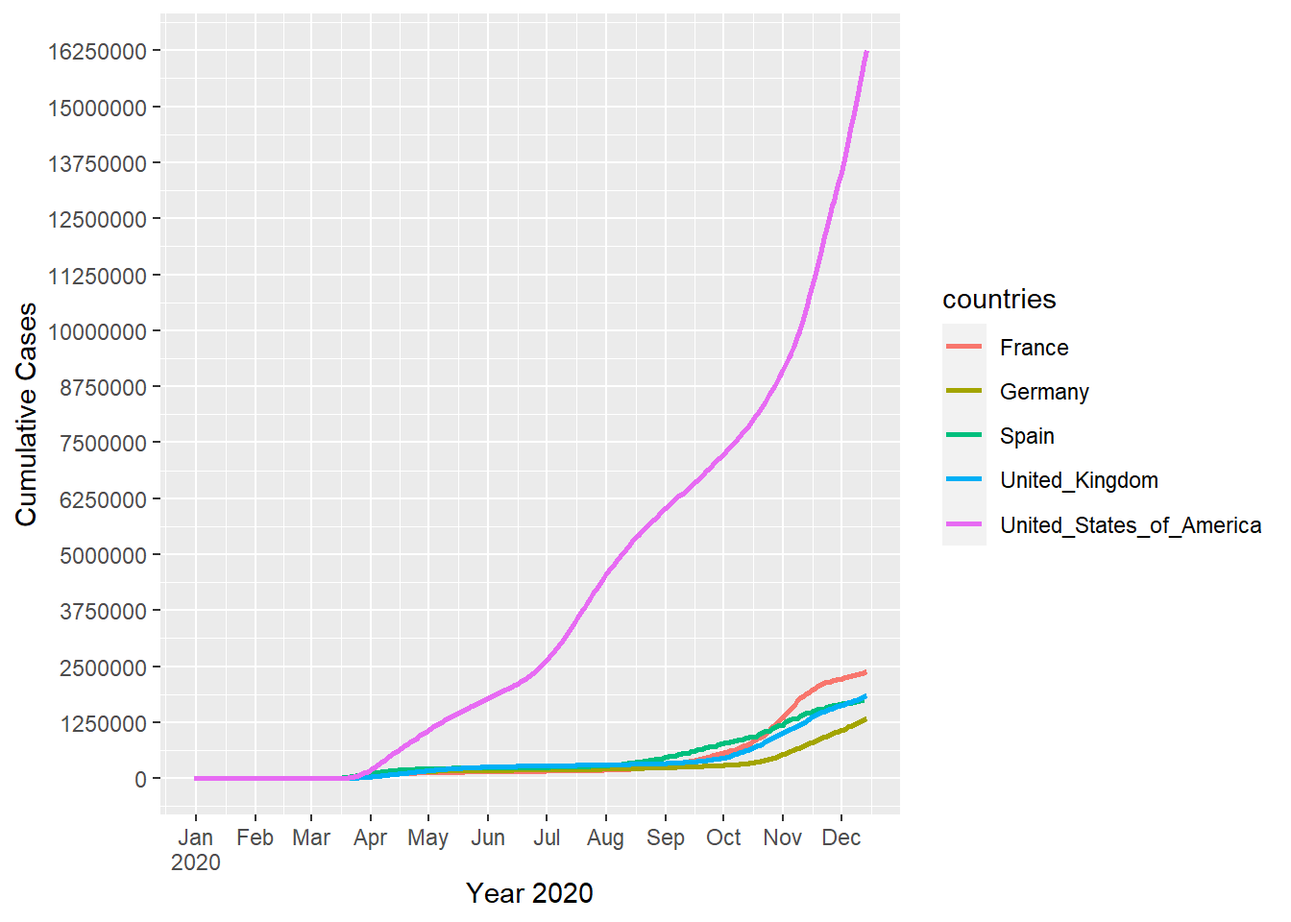
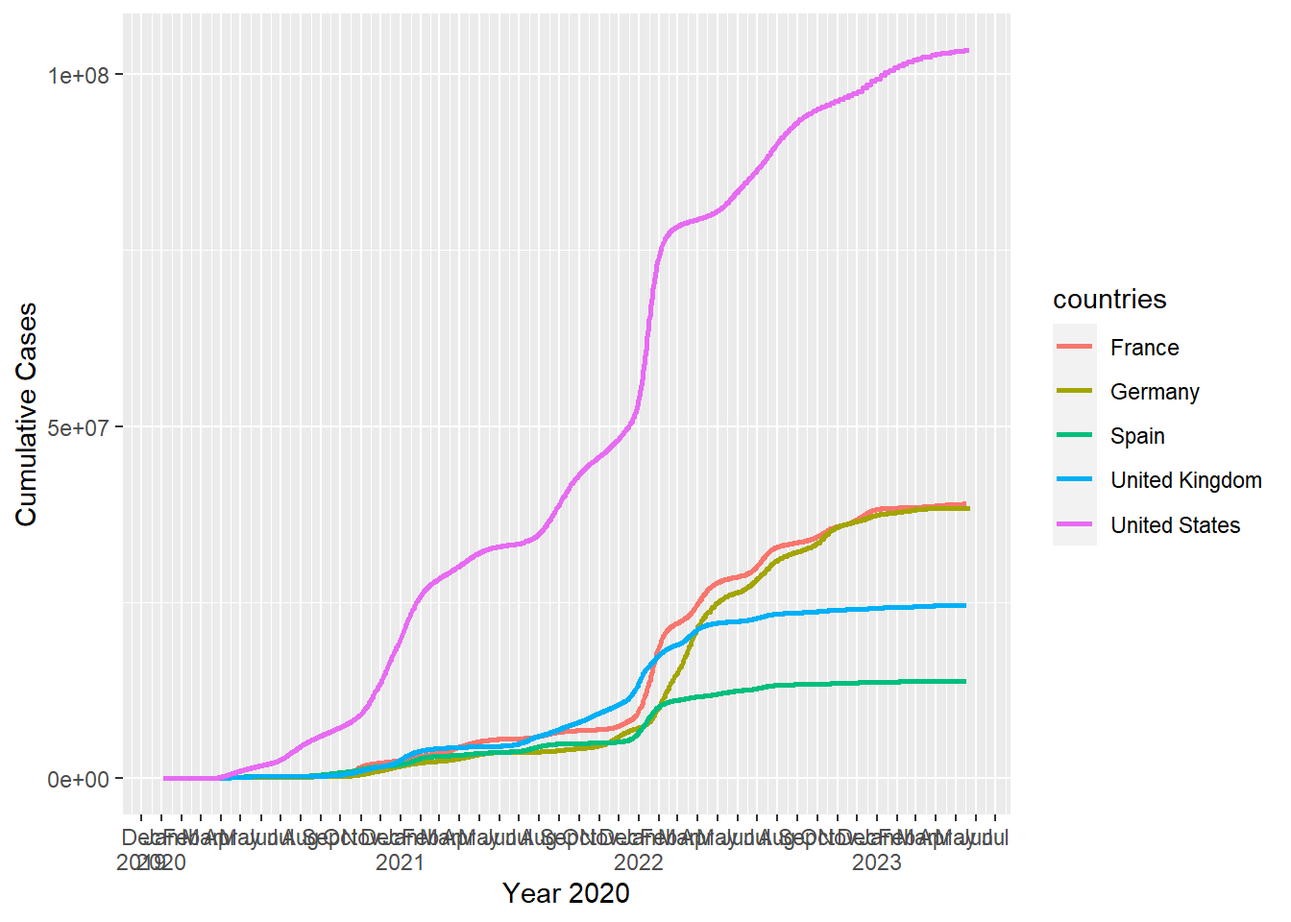
final commit

diff --git a/_site/content/01_journal/04_data_visualization.html b/_site/content/01_journal/04_data_visualization.html
@@ -5,7 +5,7 @@
 <meta name="generator" content="quarto-1.2.475">
 <meta name="viewport" content="width=device-width, initial-scale=1.0, user-scalable=yes">
 <meta name="author" content="Omar Hegazy">
-<title>MyLabJournal - Data Visualization</title>
+<title>MyLabJournal - Challenge 4: data visualization</title>
 <style>
 code{white-space: pre-wrap;}
 span.smallcaps{font-variant: small-caps;}
@@ -204,7 +204,7 @@ code span.wa { color: #60a0b0; font-weight: bold; font-style: italic; } /* Warni
     </div>
 <!-- main -->
 <main class="content" id="quarto-document-content"><header id="title-block-header" class="quarto-title-block default"><div class="quarto-title">
-<h1 class="title">Data Visualization</h1>
+<h1 class="title">Challenge 4: data visualization</h1>
 </div>
 
 
@@ -227,66 +227,62 @@ code span.wa { color: #60a0b0; font-weight: bold; font-style: italic; } /* Warni
 <span class="header-section-number">1</span> Challenge:</h1>
 <section id="map-the-time-course-of-the-cumulative-covid-19-cases." class="level2" data-number="1.1"><h2 data-number="1.1" class="anchored" data-anchor-id="map-the-time-course-of-the-cumulative-covid-19-cases.">
 <span class="header-section-number">1.1</span> Map the time course of the cumulative Covid-19 cases.</h2>
-<div class="cell" data-hash="04_data_visualization_cache/html/unnamed-chunk-1_32a1ff669c20ef3a578b6e5c73ec0397">
-<div class="sourceCode cell-code" id="cb1"><pre class="sourceCode numberSource r number-lines code-with-copy"><code class="sourceCode r"><span id="cb1-1"><a href="#cb1-1"></a><span class="fu">library</span>(tidyverse)</span></code><button title="Copy to Clipboard" class="code-copy-button"><i class="bi"></i></button></pre></div>
+<div class="cell" data-hash="04_data_visualization_cache/html/unnamed-chunk-1_664248408648d3ba7aaf9e67fe142db7">
+<div class="sourceCode cell-code" id="cb1"><pre class="sourceCode numberSource r number-lines code-with-copy"><code class="sourceCode r"><span id="cb1-1"><a href="#cb1-1"></a><span class="fu">library</span>(tidyverse)</span>
+<span id="cb1-2"><a href="#cb1-2"></a><span class="fu">library</span>(dplyr)</span>
+<span id="cb1-3"><a href="#cb1-3"></a><span class="fu">library</span>(lubridate)</span>
+<span id="cb1-4"><a href="#cb1-4"></a><span class="fu">library</span>(ggplot2)</span>
+<span id="cb1-5"><a href="#cb1-5"></a><span class="fu">library</span>(scales)</span>
+<span id="cb1-6"><a href="#cb1-6"></a><span class="fu">library</span>(tidyr)</span>
+<span id="cb1-7"><a href="#cb1-7"></a></span>
+<span id="cb1-8"><a href="#cb1-8"></a>covid_data_tbl <span class="ot">&lt;-</span> <span class="fu">read_csv</span>(<span class="st">"https://covid.ourworldindata.org/data/owid-covid-data.csv"</span>)</span></code><button title="Copy to Clipboard" class="code-copy-button"><i class="bi"></i></button></pre></div>
 <div class="cell-output cell-output-stderr">
-<pre><code>#&gt; ── Attaching core tidyverse packages ──────────────────────── tidyverse 2.0.0 ──
-#&gt; ✔ dplyr     1.1.2     ✔ readr     2.1.4
-#&gt; ✔ forcats   1.0.0     ✔ stringr   1.5.0
-#&gt; ✔ ggplot2   3.4.2     ✔ tibble    3.2.1
-#&gt; ✔ lubridate 1.9.2     ✔ tidyr     1.3.0
-#&gt; ✔ purrr     1.0.1     
-#&gt; ── Conflicts ────────────────────────────────────────── tidyverse_conflicts() ──
-#&gt; ✖ dplyr::filter() masks stats::filter()
-#&gt; ✖ dplyr::lag()    masks stats::lag()
-#&gt; ℹ Use the conflicted package (&lt;http://conflicted.r-lib.org/&gt;) to force all conflicts to become errors</code></pre>
-</div>
-<div class="sourceCode cell-code" id="cb3"><pre class="sourceCode numberSource r number-lines code-with-copy"><code class="sourceCode r"><span id="cb3-1"><a href="#cb3-1"></a><span class="fu">library</span>(dplyr)</span>
-<span id="cb3-2"><a href="#cb3-2"></a><span class="fu">library</span>(lubridate)</span>
-<span id="cb3-3"><a href="#cb3-3"></a><span class="fu">library</span>(ggplot2)</span>
-<span id="cb3-4"><a href="#cb3-4"></a><span class="fu">library</span>(scales)</span></code><button title="Copy to Clipboard" class="code-copy-button"><i class="bi"></i></button></pre></div>
-<div class="cell-output cell-output-stderr">
-<pre><code>#&gt; 
-#&gt; Attaching package: 'scales'
-#&gt; 
-#&gt; The following object is masked from 'package:purrr':
-#&gt; 
-#&gt;     discard
-#&gt; 
-#&gt; The following object is masked from 'package:readr':
-#&gt; 
-#&gt;     col_factor</code></pre>
-</div>
-<div class="sourceCode cell-code" id="cb5"><pre class="sourceCode numberSource r number-lines code-with-copy"><code class="sourceCode r"><span id="cb5-1"><a href="#cb5-1"></a>covid_data_tbl <span class="ot">&lt;-</span> <span class="fu">read_csv</span>(<span class="st">"https://opendata.ecdc.europa.eu/covid19/casedistribution/csv"</span>)</span></code><button title="Copy to Clipboard" class="code-copy-button"><i class="bi"></i></button></pre></div>
-<div class="cell-output cell-output-stderr">
-<pre><code>#&gt; Rows: 61900 Columns: 12
+<pre><code>#&gt; Rows: 311581 Columns: 67
 #&gt; ── Column specification ────────────────────────────────────────────────────────
 #&gt; Delimiter: ","
-#&gt; chr (5): dateRep, countriesAndTerritories, geoId, countryterritoryCode, cont...
-#&gt; dbl (7): day, month, year, cases, deaths, popData2019, Cumulative_number_for...
+#&gt; chr   (4): iso_code, continent, location, tests_units
+#&gt; dbl  (62): total_cases, new_cases, new_cases_smoothed, total_deaths, new_dea...
+#&gt; date  (1): date
 #&gt; 
 #&gt; ℹ Use `spec()` to retrieve the full column specification for this data.
 #&gt; ℹ Specify the column types or set `show_col_types = FALSE` to quiet this message.</code></pre>
 </div>
-<div class="sourceCode cell-code" id="cb7"><pre class="sourceCode numberSource r number-lines code-with-copy"><code class="sourceCode r"><span id="cb7-1"><a href="#cb7-1"></a>covid_data_tbl <span class="ot">&lt;-</span> covid_data_tbl[<span class="fu">order</span>(<span class="fu">as.Date</span>(covid_data_tbl<span class="sc">$</span>dateRep, <span class="at">format=</span><span class="st">"%d/%m/%Y"</span>)),]</span>
-<span id="cb7-2"><a href="#cb7-2"></a></span>
-<span id="cb7-3"><a href="#cb7-3"></a>covid_data_tbl2 <span class="ot">&lt;-</span> covid_data_tbl <span class="sc">%&gt;%</span></span>
-<span id="cb7-4"><a href="#cb7-4"></a>  <span class="fu">filter</span>(countriesAndTerritories <span class="sc">%in%</span> <span class="fu">c</span>(<span class="st">'Spain'</span>, <span class="st">'United_Kingdom'</span>, <span class="st">'France'</span>, <span class="st">'Germany'</span>,<span class="st">'United_States_of_America'</span>)) <span class="sc">%&gt;%</span></span>
-<span id="cb7-5"><a href="#cb7-5"></a>  <span class="fu">select</span>(dateRep, countriesAndTerritories, cases) <span class="sc">%&gt;%</span></span>
-<span id="cb7-6"><a href="#cb7-6"></a>  <span class="fu">group_by</span>(countriesAndTerritories) <span class="sc">%&gt;%</span></span>
-<span id="cb7-7"><a href="#cb7-7"></a>  <span class="fu">mutate</span>(<span class="at">cumulativeCases =</span> <span class="fu">cumsum</span>(cases))  <span class="sc">%&gt;%</span></span>
-<span id="cb7-8"><a href="#cb7-8"></a>  <span class="fu">select</span>(dateRep, countriesAndTerritories, cumulativeCases) <span class="sc">%&gt;%</span></span>
-<span id="cb7-9"><a href="#cb7-9"></a>  <span class="fu">rename</span>(<span class="at">countries =</span> countriesAndTerritories)</span>
-<span id="cb7-10"><a href="#cb7-10"></a><span class="co"># Plotting the values </span></span>
-<span id="cb7-11"><a href="#cb7-11"></a>ticks <span class="ot">=</span> <span class="fu">c</span>(<span class="st">"Dec"</span>,<span class="st">"Jan"</span>, <span class="st">'Feb'</span>,<span class="st">'March'</span>, <span class="st">'April'</span>, <span class="st">'May'</span>, <span class="st">'June'</span>,<span class="st">'July'</span>,</span>
-<span id="cb7-12"><a href="#cb7-12"></a>          <span class="st">'Aug'</span>,<span class="st">'Sept'</span>,<span class="st">'Oct'</span>,<span class="st">'Nov'</span>,<span class="st">'Dec'</span>)</span>
-<span id="cb7-13"><a href="#cb7-13"></a>y_ticks <span class="ot">=</span> <span class="fu">seq</span>(<span class="dv">0</span>,<span class="fu">max</span>(covid_data_tbl2<span class="sc">$</span>cumulativeCases),<span class="dv">1250000</span>)</span>
-<span id="cb7-14"><a href="#cb7-14"></a>covid_data_tbl2 <span class="sc">%&gt;%</span></span>
-<span id="cb7-15"><a href="#cb7-15"></a>  <span class="fu">ggplot</span>(<span class="fu">aes</span>(<span class="at">x =</span> <span class="fu">as.POSIXct</span>(dateRep, <span class="at">format =</span> <span class="st">'%d/%m/%Y'</span>), <span class="at">y =</span> cumulativeCases)) <span class="sc">+</span></span>
-<span id="cb7-16"><a href="#cb7-16"></a>  <span class="fu">geom_line</span>(<span class="fu">aes</span>(<span class="at">color =</span> countries), <span class="at">size =</span> <span class="dv">1</span>) <span class="sc">+</span></span>
-<span id="cb7-17"><a href="#cb7-17"></a>  <span class="fu">labs</span>(<span class="at">x =</span> <span class="st">'Year 2020'</span>, <span class="at">y=</span><span class="st">'Cumulative Cases'</span>, <span class="at">fill =</span> <span class="st">'Countries'</span>) <span class="sc">+</span></span>
-<span id="cb7-18"><a href="#cb7-18"></a>  <span class="fu">scale_x_datetime</span>(<span class="at">date_breaks =</span> <span class="st">'month'</span>, <span class="at">labels =</span> <span class="fu">label_date_short</span>()) <span class="sc">+</span></span>
-<span id="cb7-19"><a href="#cb7-19"></a>  <span class="fu">scale_y_continuous</span>(<span class="at">breaks =</span> <span class="fu">c</span>(y_ticks))</span></code><button title="Copy to Clipboard" class="code-copy-button"><i class="bi"></i></button></pre></div>
+<div class="sourceCode cell-code" id="cb3"><pre class="sourceCode numberSource r number-lines code-with-copy"><code class="sourceCode r"><span id="cb3-1"><a href="#cb3-1"></a>show_col_types <span class="ot">=</span> <span class="cn">FALSE</span></span>
+<span id="cb3-2"><a href="#cb3-2"></a></span>
+<span id="cb3-3"><a href="#cb3-3"></a>covid_data_tbl <span class="ot">&lt;-</span> covid_data_tbl[<span class="fu">order</span>(<span class="fu">as.Date</span>(covid_data_tbl<span class="sc">$</span>date, <span class="at">format=</span><span class="st">"%d/%m/%Y"</span>)),]</span>
+<span id="cb3-4"><a href="#cb3-4"></a></span>
+<span id="cb3-5"><a href="#cb3-5"></a></span>
+<span id="cb3-6"><a href="#cb3-6"></a>covid_data_tbl <span class="ot">&lt;-</span> covid_data_tbl <span class="sc">%&gt;%</span></span>
+<span id="cb3-7"><a href="#cb3-7"></a>  <span class="fu">mutate_if</span>(is.numeric,<span class="sc">~</span><span class="fu">replace_na</span>(.,<span class="dv">0</span>))</span>
+<span id="cb3-8"><a href="#cb3-8"></a></span>
+<span id="cb3-9"><a href="#cb3-9"></a></span>
+<span id="cb3-10"><a href="#cb3-10"></a>covid_data_tbl2 <span class="ot">&lt;-</span> covid_data_tbl <span class="sc">%&gt;%</span></span>
+<span id="cb3-11"><a href="#cb3-11"></a>  <span class="fu">filter</span>(location <span class="sc">%in%</span> <span class="fu">c</span>(<span class="st">'Spain'</span>, <span class="st">'United Kingdom'</span>, <span class="st">'France'</span>, <span class="st">'Germany'</span>,<span class="st">'United States'</span>)) <span class="sc">%&gt;%</span></span>
+<span id="cb3-12"><a href="#cb3-12"></a>  <span class="fu">select</span>(date, location, new_cases) <span class="sc">%&gt;%</span></span>
+<span id="cb3-13"><a href="#cb3-13"></a>  <span class="fu">group_by</span>(location) <span class="sc">%&gt;%</span></span>
+<span id="cb3-14"><a href="#cb3-14"></a>  <span class="fu">mutate</span>(<span class="at">cumulativeCases =</span> <span class="fu">cumsum</span>(new_cases))  <span class="sc">%&gt;%</span></span>
+<span id="cb3-15"><a href="#cb3-15"></a>  <span class="fu">select</span>(date, location, cumulativeCases) <span class="sc">%&gt;%</span></span>
+<span id="cb3-16"><a href="#cb3-16"></a>  <span class="fu">rename</span>(<span class="at">countries =</span> location)</span>
+<span id="cb3-17"><a href="#cb3-17"></a></span>
+<span id="cb3-18"><a href="#cb3-18"></a></span>
+<span id="cb3-19"><a href="#cb3-19"></a><span class="co"># Custom function to format labels in million abbreviation</span></span>
+<span id="cb3-20"><a href="#cb3-20"></a>custom_y_labels <span class="ot">&lt;-</span> <span class="cf">function</span>(y) {</span>
+<span id="cb3-21"><a href="#cb3-21"></a>  y_million <span class="ot">&lt;-</span> y <span class="sc">/</span> <span class="fl">1e+06</span></span>
+<span id="cb3-22"><a href="#cb3-22"></a>  <span class="fu">paste0</span>(y_million, <span class="st">" Mio"</span>)</span>
+<span id="cb3-23"><a href="#cb3-23"></a>}</span>
+<span id="cb3-24"><a href="#cb3-24"></a> </span>
+<span id="cb3-25"><a href="#cb3-25"></a></span>
+<span id="cb3-26"><a href="#cb3-26"></a><span class="co"># Plot </span></span>
+<span id="cb3-27"><a href="#cb3-27"></a>ticks <span class="ot">=</span> <span class="fu">c</span>(<span class="st">"Dec"</span>,<span class="st">"Jan"</span>, <span class="st">'Feb'</span>,<span class="st">'March'</span>, <span class="st">'April'</span>, <span class="st">'May'</span>, <span class="st">'June'</span>,<span class="st">'July'</span>,</span>
+<span id="cb3-28"><a href="#cb3-28"></a>          <span class="st">'Aug'</span>,<span class="st">'Sept'</span>,<span class="st">'Oct'</span>,<span class="st">'Nov'</span>,<span class="st">'Dec'</span>)</span>
+<span id="cb3-29"><a href="#cb3-29"></a></span>
+<span id="cb3-30"><a href="#cb3-30"></a>y_ticks <span class="ot">=</span> <span class="fu">seq</span>(<span class="dv">0</span>,<span class="fu">max</span>(covid_data_tbl2<span class="sc">$</span>cumulativeCases, <span class="at">na.rm =</span> <span class="cn">TRUE</span>, <span class="at">finite =</span> <span class="cn">TRUE</span>),<span class="dv">50000000</span>)</span>
+<span id="cb3-31"><a href="#cb3-31"></a>covid_data_tbl2 <span class="sc">%&gt;%</span></span>
+<span id="cb3-32"><a href="#cb3-32"></a>  <span class="fu">ggplot</span>(<span class="fu">aes</span>(<span class="at">x =</span> <span class="fu">as.POSIXct</span>(date, <span class="at">format =</span> <span class="st">"%B '%y"</span>), <span class="at">y =</span> cumulativeCases)) <span class="sc">+</span></span>
+<span id="cb3-33"><a href="#cb3-33"></a>  <span class="fu">geom_line</span>(<span class="fu">aes</span>(<span class="at">color =</span> countries), <span class="at">size =</span> <span class="dv">1</span>) <span class="sc">+</span></span>
+<span id="cb3-34"><a href="#cb3-34"></a>  <span class="fu">labs</span>(<span class="at">x =</span> <span class="st">'Year 2020'</span>, <span class="at">y=</span><span class="st">'Cumulative Cases'</span>, <span class="at">fill =</span> <span class="st">'Countries'</span>) <span class="sc">+</span></span>
+<span id="cb3-35"><a href="#cb3-35"></a>  <span class="fu">scale_x_datetime</span>(<span class="at">date_breaks =</span> <span class="st">'month'</span>, <span class="at">labels =</span> <span class="fu">label_date_short</span>()) <span class="sc">+</span></span>
+<span id="cb3-36"><a href="#cb3-36"></a>  <span class="fu">scale_y_continuous</span>(<span class="at">breaks=</span><span class="fu">c</span>(y_ticks))</span></code><button title="Copy to Clipboard" class="code-copy-button"><i class="bi"></i></button></pre></div>
 <div class="cell-output cell-output-stderr">
 <pre><code>#&gt; Warning: Using `size` aesthetic for lines was deprecated in ggplot2 3.4.0.
 #&gt; ℹ Please use `linewidth` instead.</code></pre>
@@ -302,54 +298,44 @@ code span.wa { color: #60a0b0; font-weight: bold; font-style: italic; } /* Warni
 <span class="header-section-number">2</span> Challenge:</h1>
 <section id="visualize-the-distribution-of-the-mortality-rate-deaths-population." class="level2" data-number="2.1"><h2 data-number="2.1" class="anchored" data-anchor-id="visualize-the-distribution-of-the-mortality-rate-deaths-population.">
 <span class="header-section-number">2.1</span> Visualize the distribution of the mortality rate (deaths / population).</h2>
-<div class="cell" data-hash="04_data_visualization_cache/html/unnamed-chunk-2_f46069391c3ce57ed6deb40824ad921f">
-<div class="sourceCode cell-code" id="cb9"><pre class="sourceCode numberSource r number-lines code-with-copy"><code class="sourceCode r"><span id="cb9-1"><a href="#cb9-1"></a><span class="fu">library</span>(maps)</span></code><button title="Copy to Clipboard" class="code-copy-button"><i class="bi"></i></button></pre></div>
+<div class="cell" data-hash="04_data_visualization_cache/html/unnamed-chunk-2_b2f17faa60a80f4a528509ef0863563f">
+<div class="sourceCode cell-code" id="cb5"><pre class="sourceCode numberSource r number-lines code-with-copy"><code class="sourceCode r"><span id="cb5-1"><a href="#cb5-1"></a><span class="fu">library</span>(maps)</span>
+<span id="cb5-2"><a href="#cb5-2"></a><span class="fu">library</span>(tidyverse)</span>
+<span id="cb5-3"><a href="#cb5-3"></a><span class="fu">library</span>(dplyr)</span>
+<span id="cb5-4"><a href="#cb5-4"></a><span class="fu">library</span>(lubridate)</span>
+<span id="cb5-5"><a href="#cb5-5"></a><span class="fu">library</span>(ggplot2)</span>
+<span id="cb5-6"><a href="#cb5-6"></a><span class="fu">theme_set</span>(</span>
+<span id="cb5-7"><a href="#cb5-7"></a>  <span class="fu">theme_dark</span>()</span>
+<span id="cb5-8"><a href="#cb5-8"></a>)</span>
+<span id="cb5-9"><a href="#cb5-9"></a>covid_data_tbl <span class="ot">&lt;-</span> <span class="fu">read_csv</span>(<span class="st">"https://covid.ourworldindata.org/data/owid-covid-data.csv"</span>)</span></code><button title="Copy to Clipboard" class="code-copy-button"><i class="bi"></i></button></pre></div>
 <div class="cell-output cell-output-stderr">
-<pre><code>#&gt; 
-#&gt; Attaching package: 'maps'</code></pre>
-</div>
-<div class="cell-output cell-output-stderr">
-<pre><code>#&gt; The following object is masked from 'package:purrr':
-#&gt; 
-#&gt;     map</code></pre>
-</div>
-<div class="sourceCode cell-code" id="cb12"><pre class="sourceCode numberSource r number-lines code-with-copy"><code class="sourceCode r"><span id="cb12-1"><a href="#cb12-1"></a><span class="fu">library</span>(tidyverse)</span>
-<span id="cb12-2"><a href="#cb12-2"></a><span class="fu">library</span>(dplyr)</span>
-<span id="cb12-3"><a href="#cb12-3"></a><span class="fu">library</span>(lubridate)</span>
-<span id="cb12-4"><a href="#cb12-4"></a><span class="fu">library</span>(ggplot2)</span>
-<span id="cb12-5"><a href="#cb12-5"></a><span class="fu">theme_set</span>(</span>
-<span id="cb12-6"><a href="#cb12-6"></a>  <span class="fu">theme_dark</span>()</span>
-<span id="cb12-7"><a href="#cb12-7"></a>)</span>
-<span id="cb12-8"><a href="#cb12-8"></a>covid_data_tbl <span class="ot">&lt;-</span> <span class="fu">read_csv</span>(<span class="st">"https://opendata.ecdc.europa.eu/covid19/casedistribution/csv"</span>)</span></code><button title="Copy to Clipboard" class="code-copy-button"><i class="bi"></i></button></pre></div>
-<div class="cell-output cell-output-stderr">
-<pre><code>#&gt; Rows: 61900 Columns: 12</code></pre>
-</div>
-<div class="cell-output cell-output-stderr">
-<pre><code>#&gt; ── Column specification ────────────────────────────────────────────────────────
+<pre><code>#&gt; Rows: 311581 Columns: 67
+#&gt; ── Column specification ────────────────────────────────────────────────────────
 #&gt; Delimiter: ","
-#&gt; chr (5): dateRep, countriesAndTerritories, geoId, countryterritoryCode, cont...
-#&gt; dbl (7): day, month, year, cases, deaths, popData2019, Cumulative_number_for...
+#&gt; chr   (4): iso_code, continent, location, tests_units
+#&gt; dbl  (62): total_cases, new_cases, new_cases_smoothed, total_deaths, new_dea...
+#&gt; date  (1): date
 #&gt; 
 #&gt; ℹ Use `spec()` to retrieve the full column specification for this data.
 #&gt; ℹ Specify the column types or set `show_col_types = FALSE` to quiet this message.</code></pre>
 </div>
-<div class="sourceCode cell-code" id="cb15"><pre class="sourceCode numberSource r number-lines code-with-copy"><code class="sourceCode r"><span id="cb15-1"><a href="#cb15-1"></a>world <span class="ot">&lt;-</span> <span class="fu">map_data</span>(<span class="st">'world'</span>) <span class="sc">%&gt;%</span></span>
-<span id="cb15-2"><a href="#cb15-2"></a>  <span class="fu">rename</span>(<span class="at">countries =</span> region) <span class="sc">%&gt;%</span></span>
-<span id="cb15-3"><a href="#cb15-3"></a>  dplyr<span class="sc">::</span><span class="fu">select</span>(countries,long,lat,group) </span>
-<span id="cb15-4"><a href="#cb15-4"></a>  </span>
-<span id="cb15-5"><a href="#cb15-5"></a>covid_data_tbl <span class="ot">&lt;-</span> covid_data_tbl <span class="sc">%&gt;%</span></span>
-<span id="cb15-6"><a href="#cb15-6"></a>  <span class="fu">mutate</span>(<span class="fu">across</span>(countriesAndTerritories, str_replace_all, <span class="st">"_"</span>, <span class="st">" "</span>)) <span class="sc">%&gt;%</span></span>
-<span id="cb15-7"><a href="#cb15-7"></a>  <span class="fu">mutate</span>(<span class="at">countriesAndTerritories =</span> <span class="fu">case_when</span>(</span>
-<span id="cb15-8"><a href="#cb15-8"></a>    </span>
-<span id="cb15-9"><a href="#cb15-9"></a>    countriesAndTerritories <span class="sc">==</span> <span class="st">"United Kingdom"</span> <span class="sc">~</span> <span class="st">"UK"</span>,</span>
-<span id="cb15-10"><a href="#cb15-10"></a>    countriesAndTerritories <span class="sc">==</span> <span class="st">"United States of America"</span> <span class="sc">~</span> <span class="st">"USA"</span>,</span>
-<span id="cb15-11"><a href="#cb15-11"></a>    countriesAndTerritories <span class="sc">==</span> <span class="st">"Czechia"</span> <span class="sc">~</span> <span class="st">"Czech Republic"</span>,</span>
-<span id="cb15-12"><a href="#cb15-12"></a>    <span class="cn">TRUE</span> <span class="sc">~</span> countriesAndTerritories</span>
-<span id="cb15-13"><a href="#cb15-13"></a>    </span>
-<span id="cb15-14"><a href="#cb15-14"></a>  ))</span></code><button title="Copy to Clipboard" class="code-copy-button"><i class="bi"></i></button></pre></div>
+<div class="sourceCode cell-code" id="cb7"><pre class="sourceCode numberSource r number-lines code-with-copy"><code class="sourceCode r"><span id="cb7-1"><a href="#cb7-1"></a>world <span class="ot">&lt;-</span> <span class="fu">map_data</span>(<span class="st">'world'</span>) <span class="sc">%&gt;%</span></span>
+<span id="cb7-2"><a href="#cb7-2"></a>  <span class="fu">rename</span>(<span class="at">countries =</span> region) <span class="sc">%&gt;%</span></span>
+<span id="cb7-3"><a href="#cb7-3"></a>  dplyr<span class="sc">::</span><span class="fu">select</span>(countries,long,lat,group) </span>
+<span id="cb7-4"><a href="#cb7-4"></a>  </span>
+<span id="cb7-5"><a href="#cb7-5"></a>covid_data_tbl <span class="ot">&lt;-</span> covid_data_tbl <span class="sc">%&gt;%</span></span>
+<span id="cb7-6"><a href="#cb7-6"></a>  <span class="fu">mutate</span>(<span class="fu">across</span>(location, str_replace_all, <span class="st">"_"</span>, <span class="st">" "</span>)) <span class="sc">%&gt;%</span></span>
+<span id="cb7-7"><a href="#cb7-7"></a>  <span class="fu">mutate</span>(<span class="at">location =</span> <span class="fu">case_when</span>(</span>
+<span id="cb7-8"><a href="#cb7-8"></a>    </span>
+<span id="cb7-9"><a href="#cb7-9"></a>    location <span class="sc">==</span> <span class="st">"United Kingdom"</span> <span class="sc">~</span> <span class="st">"UK"</span>,</span>
+<span id="cb7-10"><a href="#cb7-10"></a>    location <span class="sc">==</span> <span class="st">"United States"</span> <span class="sc">~</span> <span class="st">"USA"</span>,</span>
+<span id="cb7-11"><a href="#cb7-11"></a>    location <span class="sc">==</span> <span class="st">"Democratic Republic of Congo"</span> <span class="sc">~</span> <span class="st">"Democratic Republic of the Congo"</span>,</span>
+<span id="cb7-12"><a href="#cb7-12"></a>    <span class="cn">TRUE</span> <span class="sc">~</span> location</span>
+<span id="cb7-13"><a href="#cb7-13"></a>    </span>
+<span id="cb7-14"><a href="#cb7-14"></a>  ))</span></code><button title="Copy to Clipboard" class="code-copy-button"><i class="bi"></i></button></pre></div>
 <div class="cell-output cell-output-stderr">
 <pre><code>#&gt; Warning: There was 1 warning in `mutate()`.
-#&gt; ℹ In argument: `across(countriesAndTerritories, str_replace_all, "_", " ")`.
+#&gt; ℹ In argument: `across(location, str_replace_all, "_", " ")`.
 #&gt; Caused by warning:
 #&gt; ! The `...` argument of `across()` is deprecated as of dplyr 1.1.0.
 #&gt; Supply arguments directly to `.fns` through an anonymous function instead.
@@ -360,25 +346,29 @@ code span.wa { color: #60a0b0; font-weight: bold; font-style: italic; } /* Warni
 #&gt;   # Now
 #&gt;   across(a:b, \(x) mean(x, na.rm = TRUE))</code></pre>
 </div>
-<div class="sourceCode cell-code" id="cb17"><pre class="sourceCode numberSource r number-lines code-with-copy"><code class="sourceCode r"><span id="cb17-1"><a href="#cb17-1"></a>population <span class="ot">&lt;-</span> covid_data_tbl <span class="sc">%&gt;%</span></span>
-<span id="cb17-2"><a href="#cb17-2"></a>  <span class="fu">group_by</span>(countriesAndTerritories) <span class="sc">%&gt;%</span></span>
-<span id="cb17-3"><a href="#cb17-3"></a>  dplyr<span class="sc">::</span><span class="fu">select</span>(countriesAndTerritories, popData2019) <span class="sc">%&gt;%</span></span>
-<span id="cb17-4"><a href="#cb17-4"></a>  <span class="fu">unique</span>() <span class="sc">%&gt;%</span></span>
-<span id="cb17-5"><a href="#cb17-5"></a>  <span class="fu">rename</span>(<span class="at">countries =</span> countriesAndTerritories)</span>
-<span id="cb17-6"><a href="#cb17-6"></a>  </span>
-<span id="cb17-7"><a href="#cb17-7"></a>mortality_rate_tbl <span class="ot">&lt;-</span> covid_data_tbl <span class="sc">%&gt;%</span></span>
-<span id="cb17-8"><a href="#cb17-8"></a>  <span class="fu">group_by</span>(countriesAndTerritories) <span class="sc">%&gt;%</span></span>
-<span id="cb17-9"><a href="#cb17-9"></a>  <span class="fu">summarise</span>( </span>
-<span id="cb17-10"><a href="#cb17-10"></a>    <span class="at">total_deaths =</span> <span class="fu">sum</span>(deaths)</span>
-<span id="cb17-11"><a href="#cb17-11"></a>    ) <span class="sc">%&gt;%</span></span>
-<span id="cb17-12"><a href="#cb17-12"></a>  <span class="fu">rename</span>(<span class="at">countries =</span> countriesAndTerritories)</span>
-<span id="cb17-13"><a href="#cb17-13"></a>useful_map <span class="ot">&lt;-</span> <span class="fu">left_join</span>(population,mortality_rate_tbl, <span class="at">by =</span> <span class="st">"countries"</span>)</span>
-<span id="cb17-14"><a href="#cb17-14"></a>final_tbl <span class="ot">&lt;-</span> <span class="fu">left_join</span>(world, useful_map, <span class="at">by =</span> <span class="st">'countries'</span>) <span class="sc">%&gt;%</span></span>
-<span id="cb17-15"><a href="#cb17-15"></a>  <span class="fu">mutate</span>(<span class="at">mort_rate =</span> total_deaths <span class="sc">/</span> popData2019)</span>
-<span id="cb17-16"><a href="#cb17-16"></a><span class="co">#plotting the values</span></span>
-<span id="cb17-17"><a href="#cb17-17"></a><span class="fu">ggplot</span>(final_tbl, <span class="fu">aes</span>(long, lat, <span class="at">group =</span> group))<span class="sc">+</span></span>
-<span id="cb17-18"><a href="#cb17-18"></a>  <span class="fu">geom_polygon</span>(<span class="fu">aes</span>(<span class="at">fill =</span> mort_rate), <span class="at">color =</span> <span class="st">"white"</span>)<span class="sc">+</span></span>
-<span id="cb17-19"><a href="#cb17-19"></a>  <span class="fu">scale_fill_gradient</span>(<span class="at">low =</span> <span class="st">'orange'</span>, <span class="at">high =</span> <span class="st">'red'</span>, <span class="at">na.value =</span> <span class="st">'white'</span>)</span></code><button title="Copy to Clipboard" class="code-copy-button"><i class="bi"></i></button></pre></div>
+<div class="sourceCode cell-code" id="cb9"><pre class="sourceCode numberSource r number-lines code-with-copy"><code class="sourceCode r"><span id="cb9-1"><a href="#cb9-1"></a>population <span class="ot">&lt;-</span> covid_data_tbl <span class="sc">%&gt;%</span></span>
+<span id="cb9-2"><a href="#cb9-2"></a>  <span class="fu">group_by</span>(location) <span class="sc">%&gt;%</span></span>
+<span id="cb9-3"><a href="#cb9-3"></a>  dplyr<span class="sc">::</span><span class="fu">select</span>(location, population) <span class="sc">%&gt;%</span></span>
+<span id="cb9-4"><a href="#cb9-4"></a>  <span class="fu">unique</span>() <span class="sc">%&gt;%</span></span>
+<span id="cb9-5"><a href="#cb9-5"></a>  <span class="fu">rename</span>(<span class="at">countries =</span> location)</span>
+<span id="cb9-6"><a href="#cb9-6"></a></span>
+<span id="cb9-7"><a href="#cb9-7"></a>covid_data_tbl <span class="ot">&lt;-</span> covid_data_tbl <span class="sc">%&gt;%</span></span>
+<span id="cb9-8"><a href="#cb9-8"></a>  <span class="fu">mutate_if</span>(is.numeric,<span class="sc">~</span><span class="fu">replace_na</span>(.,<span class="dv">0</span>))</span>
+<span id="cb9-9"><a href="#cb9-9"></a></span>
+<span id="cb9-10"><a href="#cb9-10"></a>mortality_rate_tbl <span class="ot">&lt;-</span> covid_data_tbl <span class="sc">%&gt;%</span></span>
+<span id="cb9-11"><a href="#cb9-11"></a>  <span class="fu">group_by</span>(location) <span class="sc">%&gt;%</span></span>
+<span id="cb9-12"><a href="#cb9-12"></a>  <span class="fu">summarise</span>( </span>
+<span id="cb9-13"><a href="#cb9-13"></a>    <span class="at">total_deaths =</span> <span class="fu">sum</span>(new_deaths)</span>
+<span id="cb9-14"><a href="#cb9-14"></a>    ) <span class="sc">%&gt;%</span></span>
+<span id="cb9-15"><a href="#cb9-15"></a>  <span class="fu">rename</span>(<span class="at">countries =</span> location)</span>
+<span id="cb9-16"><a href="#cb9-16"></a></span>
+<span id="cb9-17"><a href="#cb9-17"></a>useful_map <span class="ot">&lt;-</span> <span class="fu">left_join</span>(population,mortality_rate_tbl, <span class="at">by =</span> <span class="st">"countries"</span>)</span>
+<span id="cb9-18"><a href="#cb9-18"></a>final_tbl <span class="ot">&lt;-</span> <span class="fu">left_join</span>(world, useful_map, <span class="at">by =</span> <span class="st">'countries'</span>) <span class="sc">%&gt;%</span></span>
+<span id="cb9-19"><a href="#cb9-19"></a>  <span class="fu">mutate</span>(<span class="at">mort_rate =</span> total_deaths <span class="sc">/</span> population)</span>
+<span id="cb9-20"><a href="#cb9-20"></a><span class="co">#plotting the values</span></span>
+<span id="cb9-21"><a href="#cb9-21"></a><span class="fu">ggplot</span>(final_tbl, <span class="fu">aes</span>(long, lat, <span class="at">group =</span> group))<span class="sc">+</span></span>
+<span id="cb9-22"><a href="#cb9-22"></a>  <span class="fu">geom_polygon</span>(<span class="fu">aes</span>(<span class="at">fill =</span> mort_rate), <span class="at">color =</span> <span class="st">"white"</span>)<span class="sc">+</span></span>
+<span id="cb9-23"><a href="#cb9-23"></a>  <span class="fu">scale_fill_gradient</span>(<span class="at">low =</span> <span class="st">'pink'</span>, <span class="at">high =</span> <span class="st">'red'</span>, <span class="at">na.value =</span> <span class="st">'white'</span>)</span></code><button title="Copy to Clipboard" class="code-copy-button"><i class="bi"></i></button></pre></div>
 <div class="cell-output-display">
 <div class="quarto-figure quarto-figure-center">
 <figure class="figure"><p><a href="04_data_visualization_files/figure-html/unnamed-chunk-2-1.png" class="lightbox" data-gallery="quarto-lightbox-gallery-2"><img src="04_data_visualization_files/figure-html/unnamed-chunk-2-1.png" class="img-fluid figure-img" width="672"></a></p>
@@ -637,7 +627,7 @@ window.document.addEventListener("DOMContentLoaded", function (event) {
 });
 </script>
 </div> <!-- /content -->
-<script>var lightboxQuarto = GLightbox({"selector":".lightbox","descPosition":"bottom","closeEffect":"zoom","openEffect":"zoom","loop":true});</script>
+<script>var lightboxQuarto = GLightbox({"loop":true,"openEffect":"zoom","selector":".lightbox","closeEffect":"zoom","descPosition":"bottom"});</script>
 
 
 </body></html>
